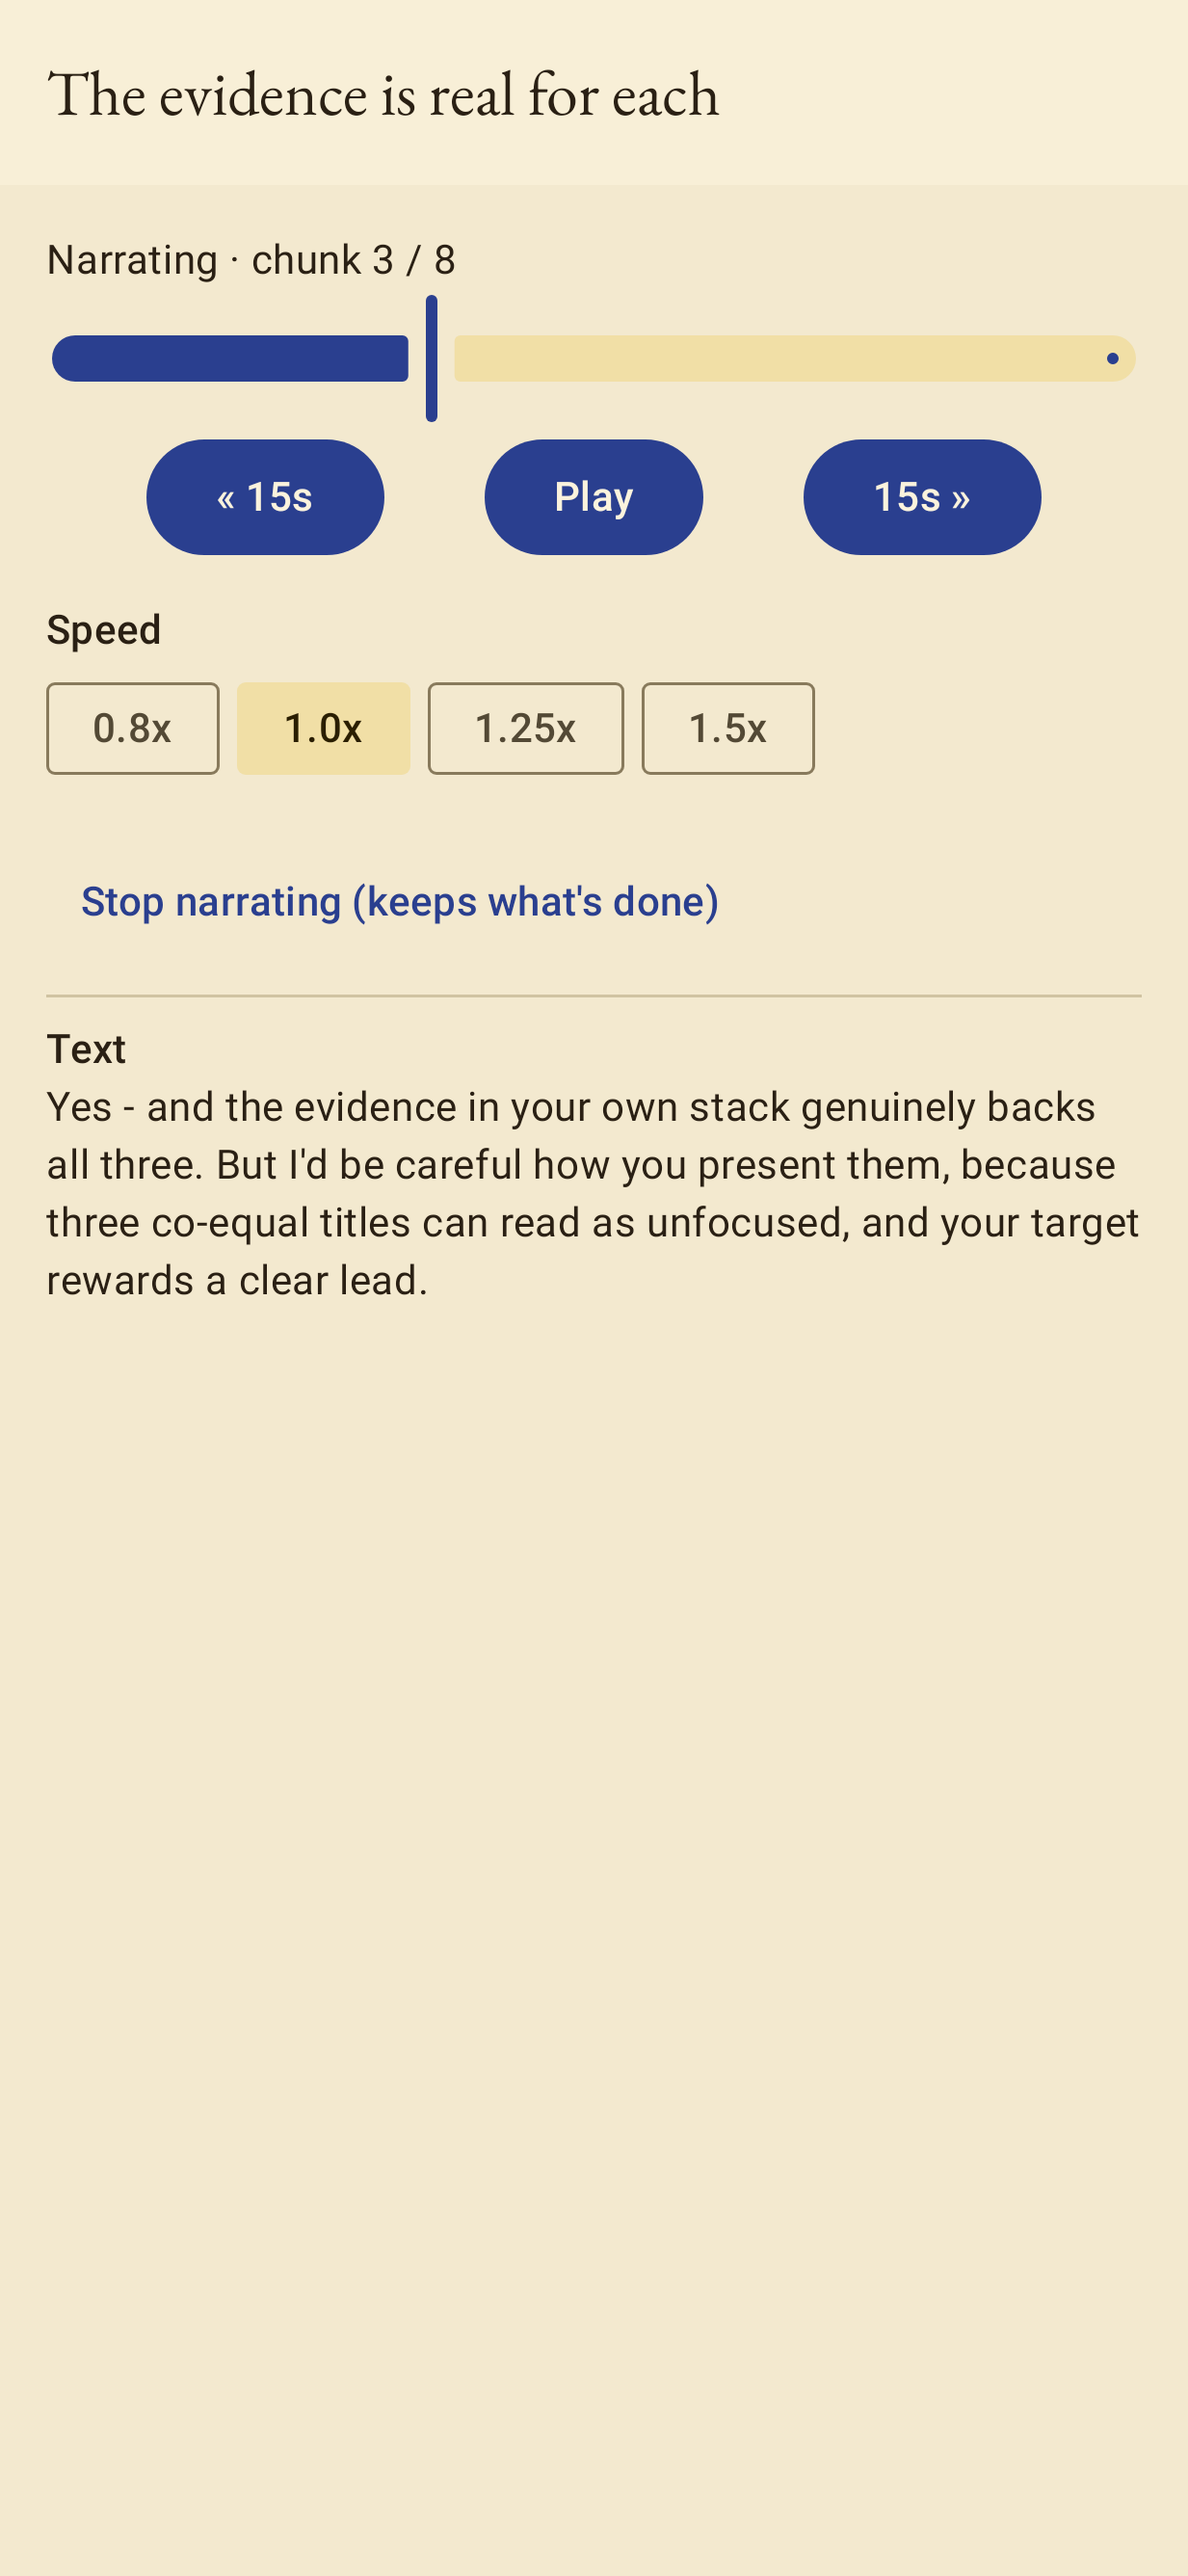
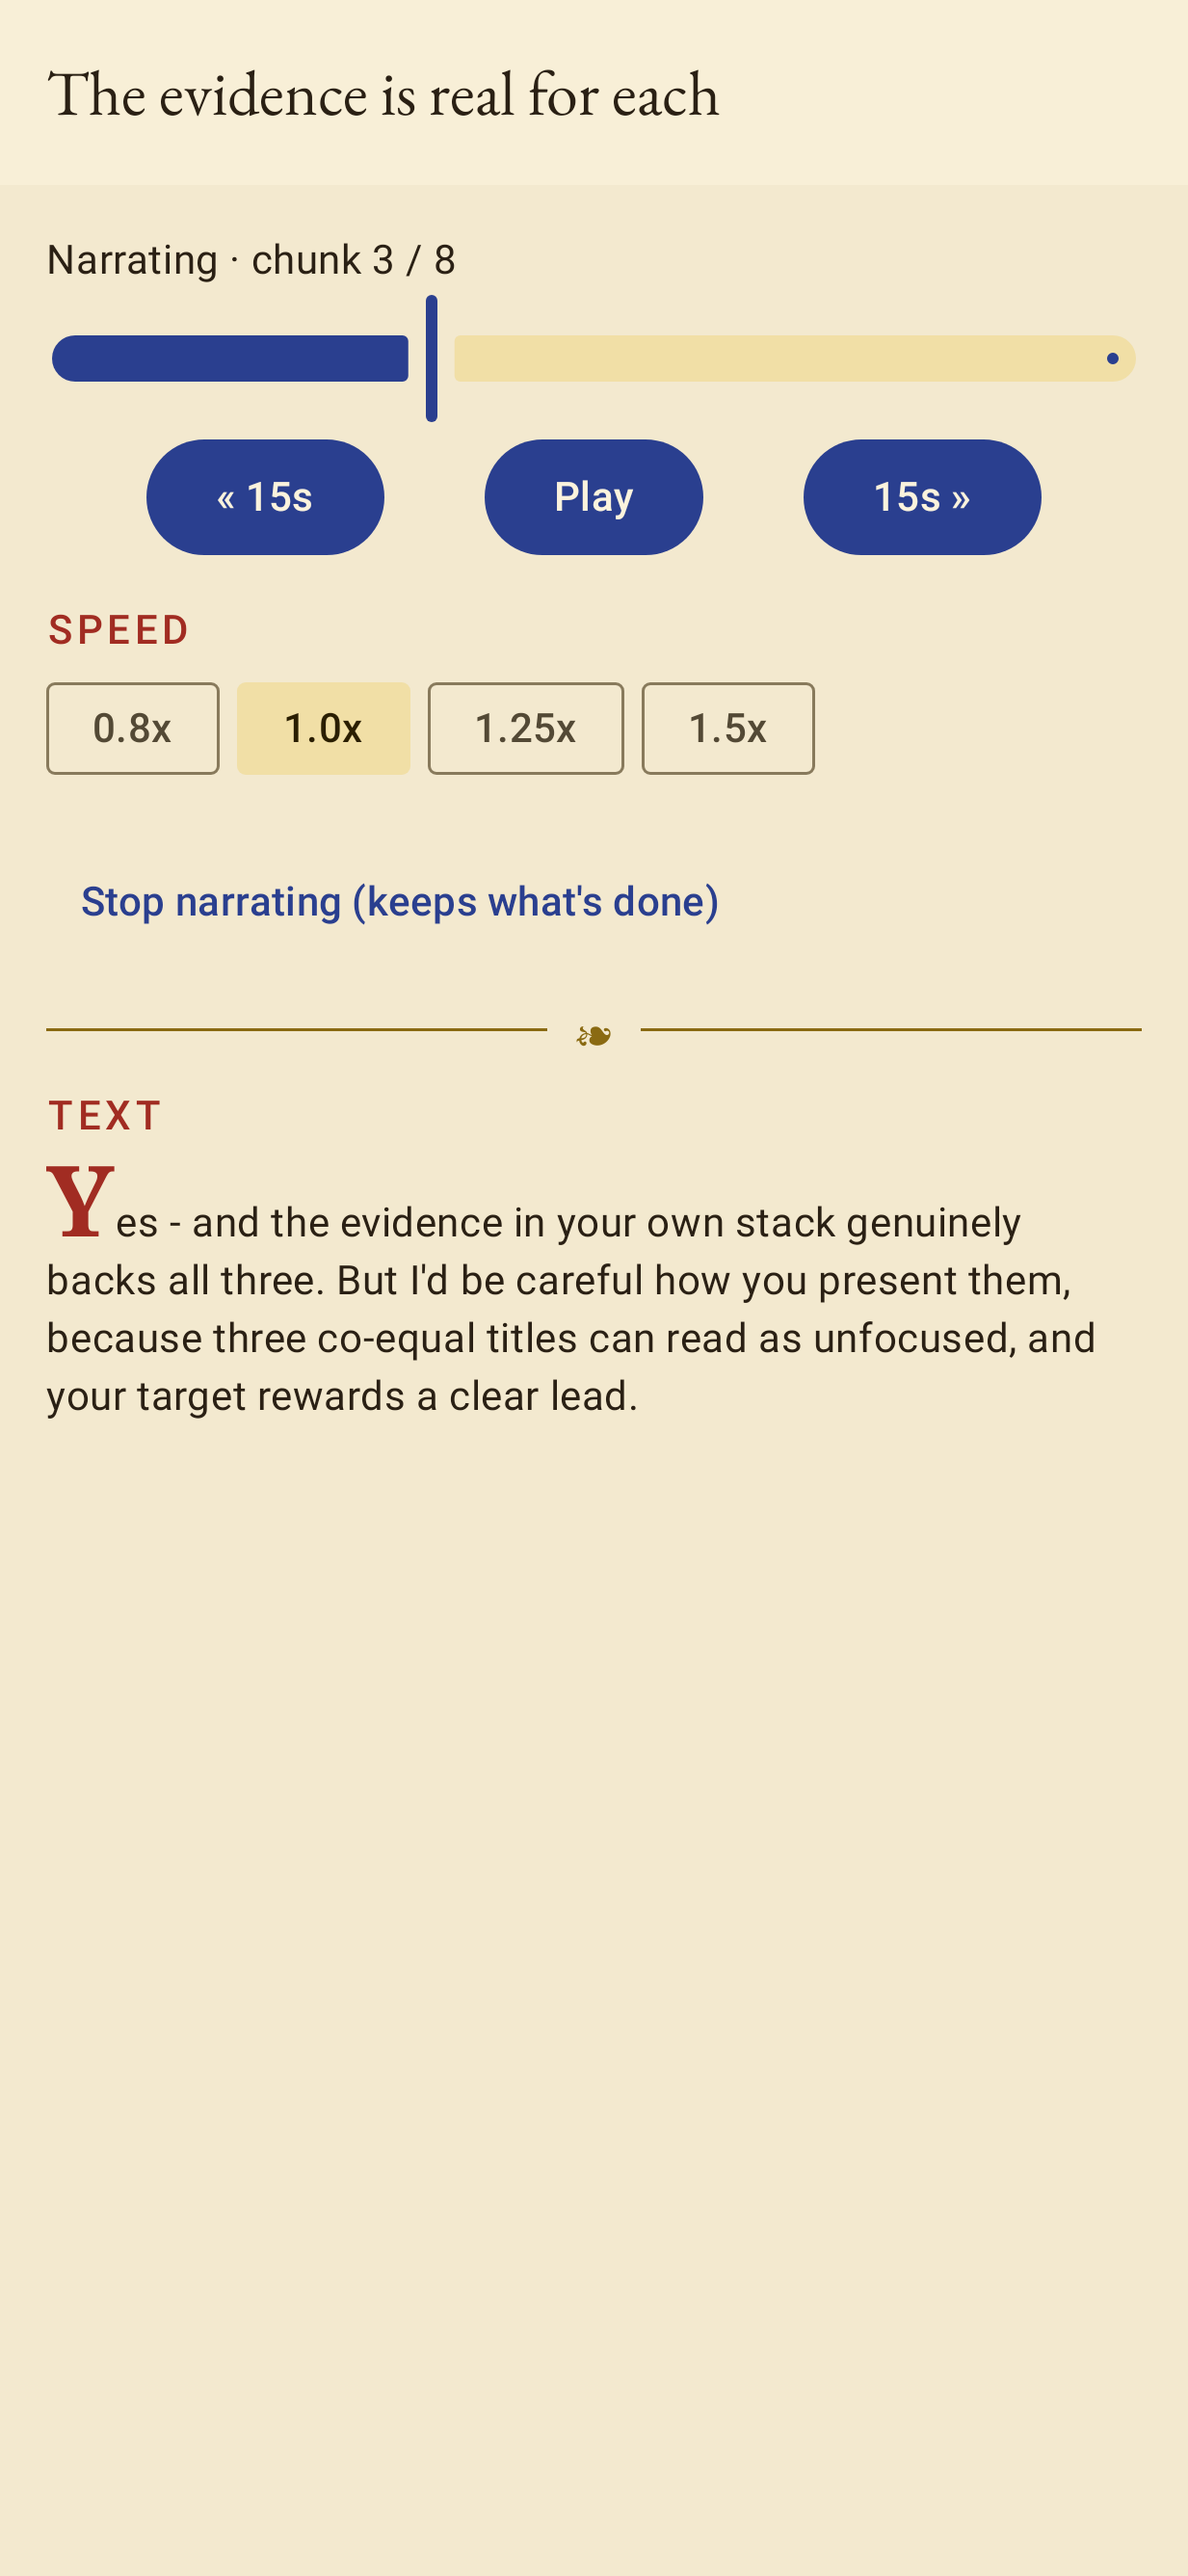
Deepen the monastic style: illuminated initial + rubricated headings
Per the chosen direction (deepen monastic/lector) and the research synthesis,
restrained illumination as emphasis on a readable page:

- Illuminated reading initial: the Player read-along now opens with a raised
  rubric versal (the source's enlarged first letter) - the most iconic
  manuscript element, kept to one letter.
- RubricHeader: Voice / Speed / Sleep timer / Text are now rubric-red spaced
  small-caps (the rubric tradition); the Text section gets a fleuron rule.
- Roborazzi goldens re-recorded to match; design doc updated with the
  monastic-over-orator rationale (the lector thread) and the web parity.

Changed region(s): [[0.0308, 0.3726, 0.9554, 0.5589], [0.0308, 0.2174, 0.1541, 0.2484]]

diff --git a/app/src/main/kotlin/page/stephens/sotto/shell/ui/SottoActivity.kt b/app/src/main/kotlin/page/stephens/sotto/shell/ui/SottoActivity.kt
@@ -59,7 +59,13 @@ import androidx.compose.runtime.rememberCoroutineScope
 import androidx.compose.runtime.setValue
 import androidx.compose.ui.Alignment
 import androidx.compose.ui.Modifier
+import androidx.compose.ui.text.SpanStyle
+import androidx.compose.ui.text.buildAnnotatedString
+import androidx.compose.ui.text.font.FontFamily
+import androidx.compose.ui.text.font.FontWeight
+import androidx.compose.ui.text.withStyle
 import androidx.compose.ui.unit.dp
+import androidx.compose.ui.unit.sp
 import androidx.core.content.ContextCompat
 import androidx.lifecycle.lifecycleScope
 import androidx.media3.common.Player
@@ -208,7 +214,7 @@ class SottoActivity : ComponentActivity() {
                 }
 
                 Spacer(Modifier.height(12.dp))
-                Text("Voice", style = MaterialTheme.typography.labelLarge)
+                RubricHeader("Voice")
                 val choices = if (onServer)
                     openaiVoices.map { it to (OPENAI_VOICE_LABELS[it] ?: it.replaceFirstChar(Char::uppercase)) }
                 else VOICES
@@ -551,7 +557,7 @@ class SottoActivity : ComponentActivity() {
                     Button(onClick = { controller?.seekTo(positionMs + 15_000) }) { Text("15s »") }
                 }
                 Spacer(Modifier.height(20.dp))
-                Text("Speed", style = MaterialTheme.typography.labelLarge)
+                RubricHeader("Speed")
                 Row(horizontalArrangement = Arrangement.spacedBy(8.dp)) {
                     listOf(0.8f, 1.0f, 1.25f, 1.5f, 2.0f).forEach { s ->
                         FilterChip(selected = speed == s,
@@ -560,7 +566,7 @@ class SottoActivity : ComponentActivity() {
                     }
                 }
                 Spacer(Modifier.height(12.dp))
-                Text("Sleep timer", style = MaterialTheme.typography.labelLarge)
+                RubricHeader("Sleep timer")
                 Row(horizontalArrangement = Arrangement.spacedBy(8.dp)) {
                     listOf(15, 30, 60).forEach { m ->
                         FilterChip(selected = sleepLeft == m,
@@ -587,10 +593,22 @@ class SottoActivity : ComponentActivity() {
                 }
                 if (source.isNotBlank()) {
                     Spacer(Modifier.height(16.dp))
-                    HorizontalDivider()
-                    Text("Text", style = MaterialTheme.typography.labelLarge,
-                        modifier = Modifier.padding(top = 12.dp, bottom = 6.dp))
-                    Text(source, style = MaterialTheme.typography.bodyMedium,
+                    FleuronRule()
+                    RubricHeader("Text", Modifier.padding(top = 12.dp, bottom = 6.dp))
+                    // An illuminated initial opens the reading (a raised rubric
+                    // versal), the manuscript's most iconic element - restrained
+                    // to a single gilded letter, the rest plain and readable.
+                    val reading = buildAnnotatedString {
+                        val i = source.indexOfFirst { !it.isWhitespace() }
+                        if (i < 0) { append(source); return@buildAnnotatedString }
+                        append(source.substring(0, i))
+                        withStyle(SpanStyle(fontFamily = FontFamily.Serif, fontWeight = FontWeight.Bold,
+                            fontSize = 34.sp, color = MaterialTheme.colorScheme.tertiary)) {
+                            append(source[i].toString())
+                        }
+                        append(source.substring(i + 1))
+                    }
+                    Text(reading, style = MaterialTheme.typography.bodyMedium,
                         modifier = Modifier.weight(1f).verticalScroll(rememberScrollState()))
                 }
             }

diff --git a/app/src/test/kotlin/page/stephens/sotto/IlluminatedScreenshotTest.kt b/app/src/test/kotlin/page/stephens/sotto/IlluminatedScreenshotTest.kt
@@ -44,7 +44,13 @@ import androidx.compose.material3.TopAppBar
 import androidx.compose.runtime.Composable
 import androidx.compose.ui.Alignment
 import androidx.compose.ui.Modifier
+import androidx.compose.ui.text.SpanStyle
+import androidx.compose.ui.text.buildAnnotatedString
+import androidx.compose.ui.text.font.FontFamily
+import androidx.compose.ui.text.font.FontWeight
+import androidx.compose.ui.text.withStyle
 import androidx.compose.ui.unit.dp
+import androidx.compose.ui.unit.sp
 import com.github.takahirom.roborazzi.RoborazziOptions
 import com.github.takahirom.roborazzi.captureRoboImage
 import org.junit.Test
@@ -53,6 +59,7 @@ import org.robolectric.RobolectricTestRunner
 import org.robolectric.annotation.Config
 import org.robolectric.annotation.GraphicsMode
 import page.stephens.sotto.shell.ui.FleuronRule
+import page.stephens.sotto.shell.ui.RubricHeader
 import page.stephens.sotto.shell.ui.SottoTheme
 import page.stephens.sotto.shell.ui.SottoWordmark
 import page.stephens.sotto.shell.ui.Versal
@@ -142,7 +149,7 @@ class IlluminatedScreenshotTest {
                     Text("Narrate on the server (OpenAI)", style = MaterialTheme.typography.bodyMedium)
                 }
                 Spacer(Modifier.height(12.dp))
-                Text("Voice", style = MaterialTheme.typography.labelLarge)
+                RubricHeader("Voice")
                 listOf("Onyx · deep" to true, "Nova · warm" to false, "Shimmer · bright" to false)
                     .forEach { (label, chosen) ->
                         ListItem(headlineContent = { Text(label) }, leadingContent = {
@@ -171,7 +178,7 @@ class IlluminatedScreenshotTest {
                     Button(onClick = {}) { Text("15s »") }
                 }
                 Spacer(Modifier.height(12.dp))
-                Text("Speed", style = MaterialTheme.typography.labelLarge)
+                RubricHeader("Speed")
                 Row {
                     listOf("0.8x" to false, "1.0x" to true, "1.25x" to false, "1.5x" to false).forEach { (s, on) ->
                         FilterChip(selected = on, onClick = {}, label = { Text(s) },
@@ -180,12 +187,15 @@ class IlluminatedScreenshotTest {
                 }
                 Spacer(Modifier.height(12.dp))
                 TextButton(onClick = {}) { Text("Stop narrating (keeps what's done)") }
-                HorizontalDivider(Modifier.padding(vertical = 8.dp))
-                Text("Text", style = MaterialTheme.typography.labelLarge)
-                Text("Yes - and the evidence in your own stack genuinely backs all three. " +
-                    "But I'd be careful how you present them, because three co-equal titles " +
-                    "can read as unfocused, and your target rewards a clear lead.",
-                    style = MaterialTheme.typography.bodyMedium)
+                FleuronRule()
+                RubricHeader("Text")
+                Text(buildAnnotatedString {
+                    withStyle(SpanStyle(fontFamily = FontFamily.Serif, fontWeight = FontWeight.Bold,
+                        fontSize = 34.sp, color = MaterialTheme.colorScheme.tertiary)) { append("Y") }
+                    append("es - and the evidence in your own stack genuinely backs all three. " +
+                        "But I'd be careful how you present them, because three co-equal titles " +
+                        "can read as unfocused, and your target rewards a clear lead.")
+                }, style = MaterialTheme.typography.bodyMedium)
             }
         }
     }

diff --git a/app/src/main/kotlin/page/stephens/sotto/shell/ui/Illumination.kt b/app/src/main/kotlin/page/stephens/sotto/shell/ui/Illumination.kt
@@ -62,6 +62,19 @@ fun Versal(letter: Char, modifier: Modifier = Modifier, boxSize: Dp = 56.dp) {
     }
 }
 
+/** A rubricated heading: red (the rubric tradition - Latin *ruber*), spaced
+ *  small-caps. Used for section labels, sparingly. */
+@Composable
+fun RubricHeader(text: String, modifier: Modifier = Modifier) {
+    Text(
+        text.uppercase(),
+        modifier = modifier,
+        color = MaterialTheme.colorScheme.tertiary,
+        style = MaterialTheme.typography.labelLarge,
+        letterSpacing = 1.5.sp,
+    )
+}
+
 /** A scribe's section break: hairline gold rule centered on a fleuron. */
 @Composable
 fun FleuronRule(modifier: Modifier = Modifier) {

diff --git a/docs/41-design-system.md b/docs/41-design-system.md
@@ -16,6 +16,18 @@ The shared identity with the web app is the name, the boundary story, the
 voices, and now the palette lineage (the web navy descends to the manuscript
 lapis); not pixels.
 
+**Why monastic, not classical-orator** (the alternative considered 2026-06-19):
+the decisive thread is *lector* - the app's original name and the liturgical
+office of one who reads Scripture aloud to the assembly. The scriptorium frame
+captures Sotto's whole pipeline (scriptorium→library, lectionary→the document,
+lector→the narration, *sotto voce*→the private register), where a Greco-Roman
+orator theme captures only the speaking half and imports the wrong connotation:
+public performance and persuasion, the opposite of an audience of one. Sourced
+from a three-model research synthesis on the monastic illuminated style; the
+operative caution from all three is *restraint* - ornament as occasional
+emphasis on an otherwise calm, readable page (a reading app cannot do real
+*horror vacui*).
+
 ## Foundations
 
 - **Color** (`shell/ui/Theme.kt`). A fixed brand palette - deliberately *not*
@@ -55,6 +67,17 @@ Custom, used sparingly:
   initial, the way a manuscript text opens. Used on the empty Library state.
 - **FleuronRule** - a hairline gold rule centered on a fleuron (❧), the scribe's
   section break.
+- **RubricHeader** - a section heading in rubric red, spaced small-caps (Latin
+  *ruber*; rubrics were the red instructional headings). Used for Voice / Speed /
+  Sleep timer / Text.
+- **Illuminated reading initial** - the Player read-along opens with a raised
+  rubric versal (the source's first letter, enlarged serif), the single most
+  iconic manuscript element, kept to one gilded letter with the rest plain.
+
+The web app (sotto.stephens.page) carries the same language: the parchment
+ground gets a faint feTurbulence vellum grain, section labels are rubricated
+small-caps, the fleuron rule sits above the footer, and the wordmark is the
+same MedievalSharp.
 
 Everything else is stock M3 (TopAppBar, ListItem, FilterChip, LinearProgress,
 Slider, AlertDialog, ModalBottomSheet, Switch), inheriting the theme.
